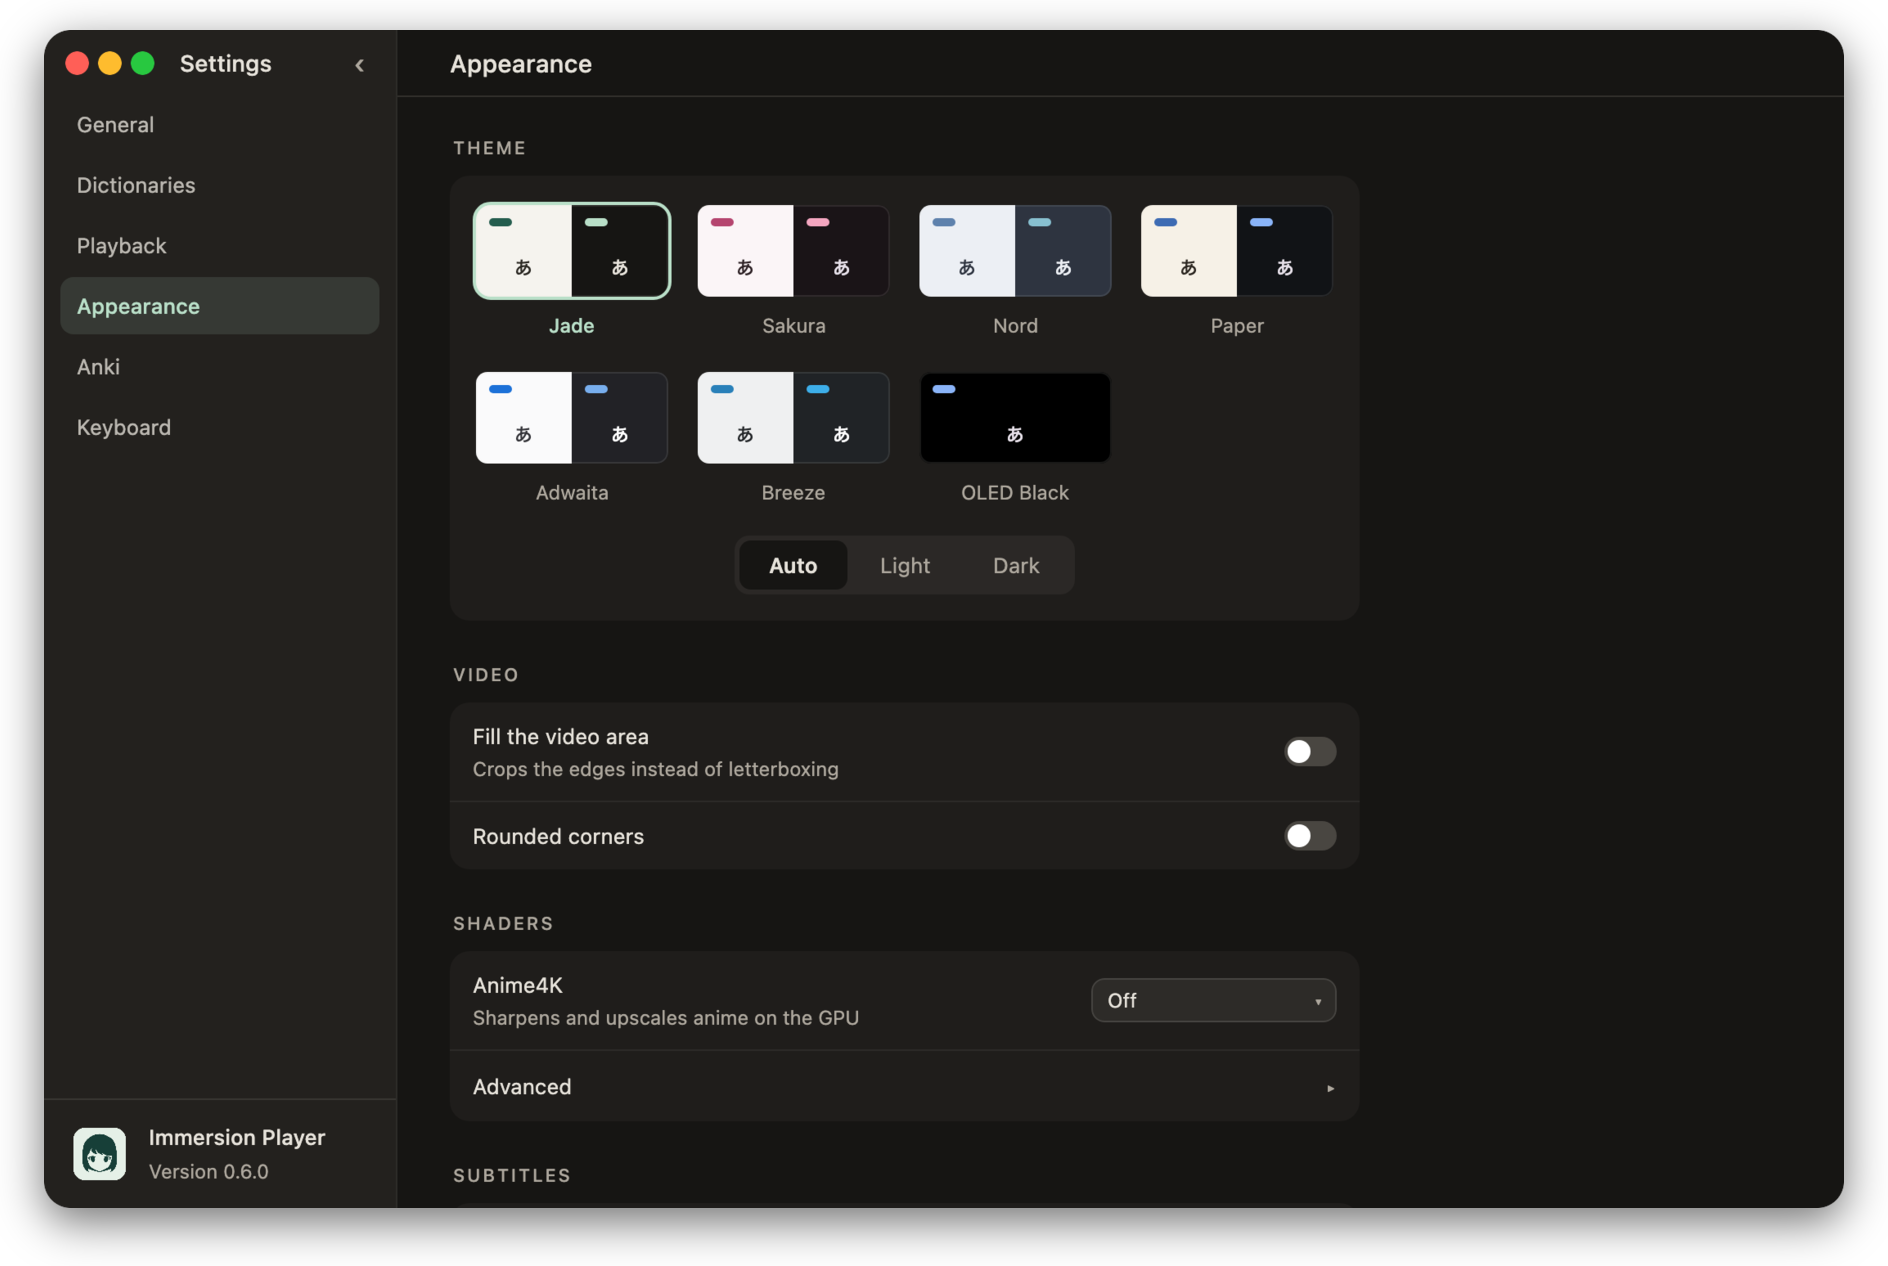
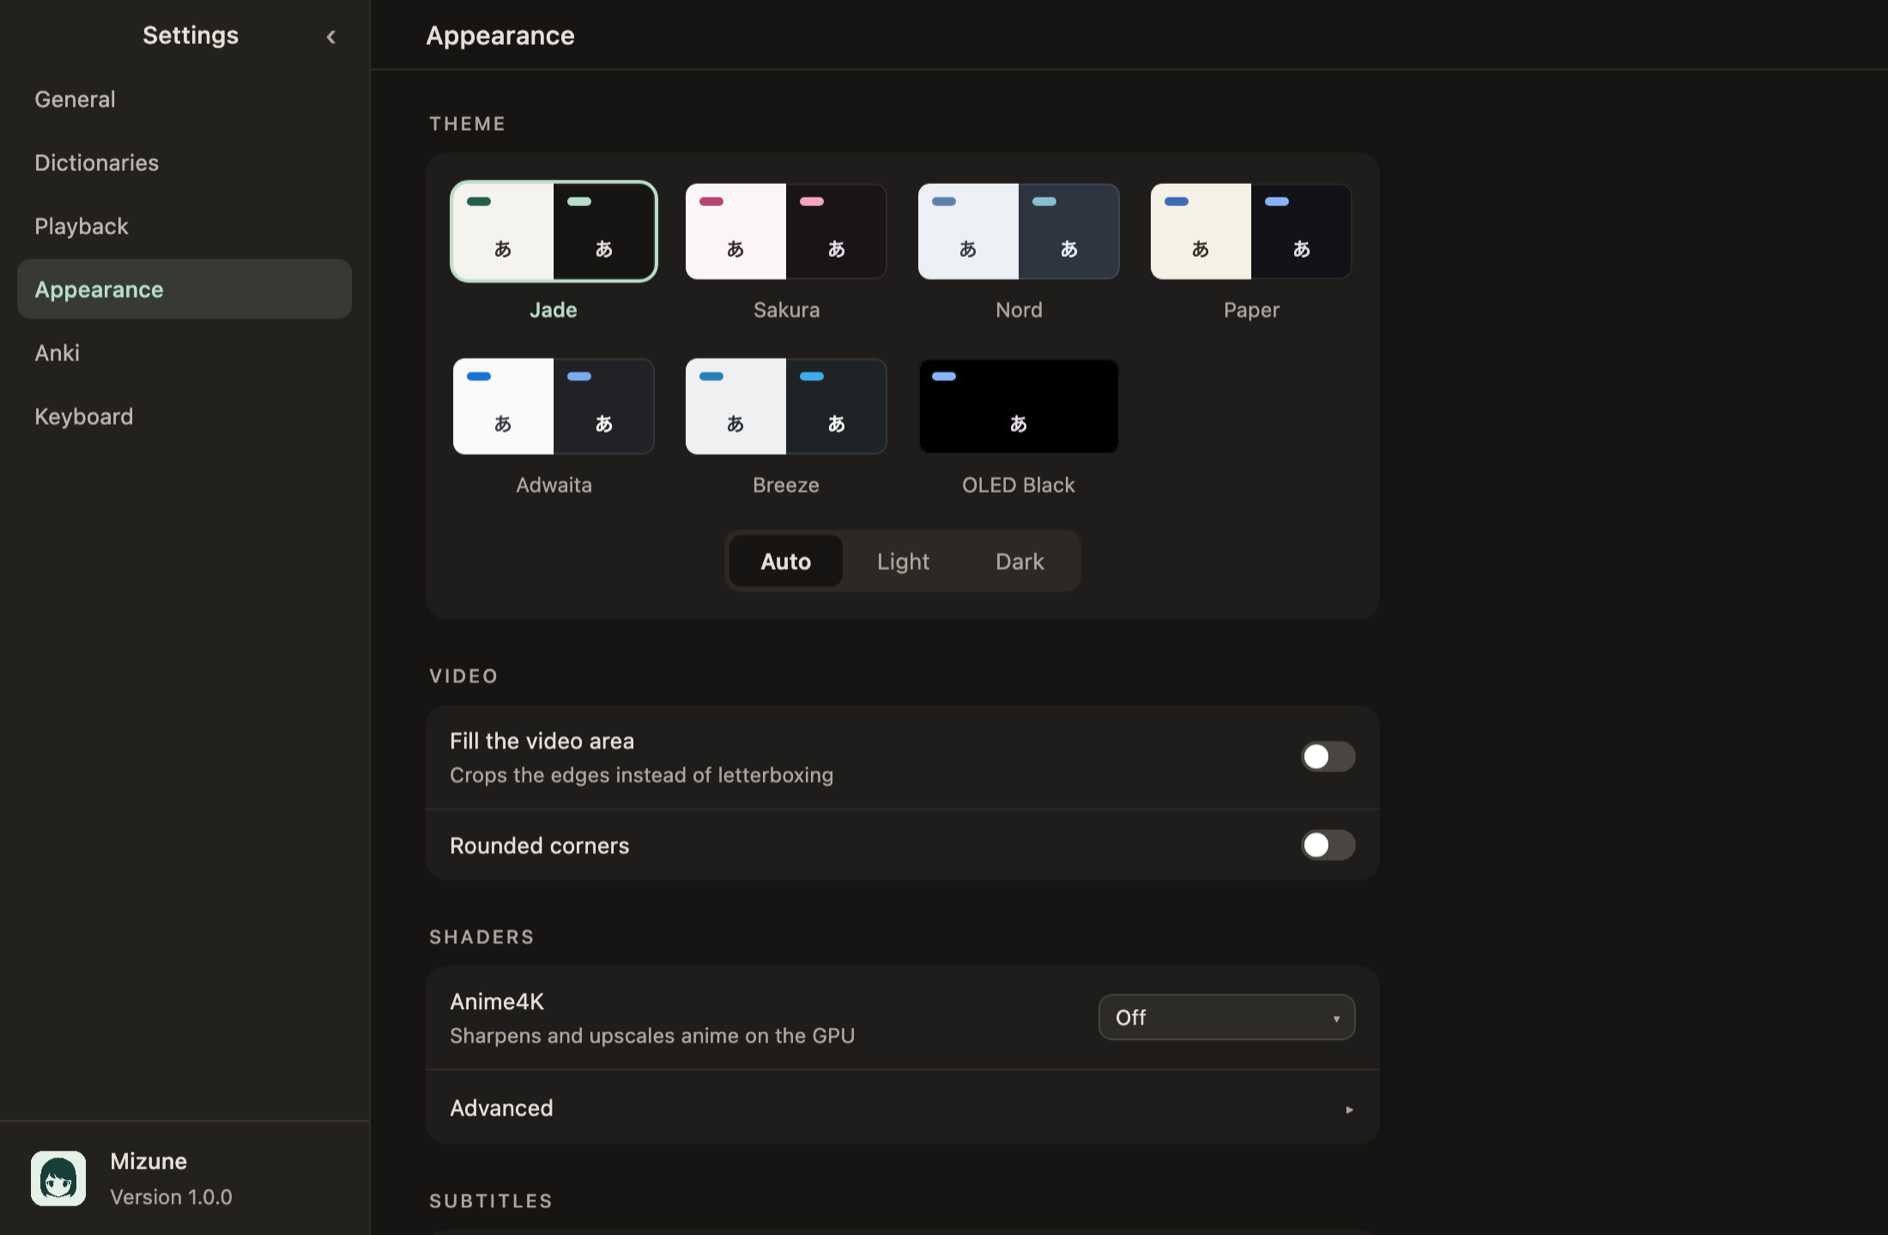
1.0.0, with the README's release keys and Settings screenshot brought up to date

diff --git a/README.md b/README.md
@@ -344,8 +344,10 @@ gh release edit v0.6.0 --draft=false  # publishing is what sends the update
 ```
 
 The version lives in `gradle.properties` (`appVersion`), and Android's versionCode is derived
-from it. The feed is signed with `~/.keystores/immersion-update.pem`, whose public half is in
-`core`'s `Updates`. Back that key up: installed apps accept no other.
+from it. The feed is signed with `~/.keystores/mizune-update.pem`, whose public half is in
+`core`'s `Updates`, and release APKs with `~/.keystores/mizune.jks` (`-PmizuneKeystore` points at
+`mizune.properties`). Back both up: installed apps accept no other feed key, and Android won't
+update an app across another signing key.
 
 ### Tests
 
